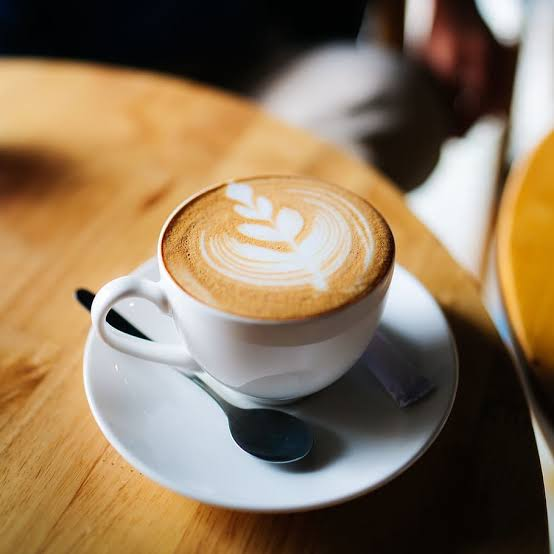
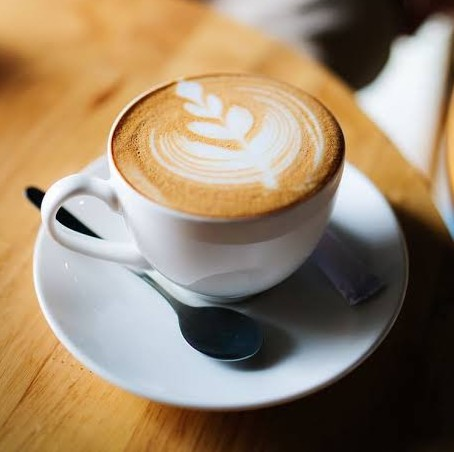
Pics

diff --git a/index.html b/index.html
@@ -32,20 +32,25 @@
     <div class="gallery">
         <div class="gallery-item">
             <img src="img/aMERICANO.jpg" alt="Image 1">
-            <div class="text">Americano</div>
+            <div class="text"><i>Americano</i></div>
         </div>
 
         <div class="gallery-item">
             <img src="img/CAPUCCINO.jpg" alt="Image 2">
-            <div class="text">Capuccino</div>
+            <div class="text"><i>Capuccino</i></div>
         </div>
 
         <div class="gallery-item">
             <img src="img/MACCHIATO.jpg" alt="Image 3">
-            <div class="text">Macchiato</div>
+            <div class="text"><i>Macchiato</i></div>
+        </div>
 
+        <div class="gallery-item">
+            <img src="img/Mocha.png" alt="Image 4">
+            <div class="text"><i>Mocha</i></div>
         </div>
     </div>
+        <h1>See More</h1>
     </section>
 
     <section id="about" class="about">

diff --git a/css/styles.css b/css/styles.css
@@ -134,7 +134,7 @@ footer {
 }
 
 .gallery-item {
-    width: 180px;
+    width: auto;
     border: 1px solid #ccc;
 }
 
